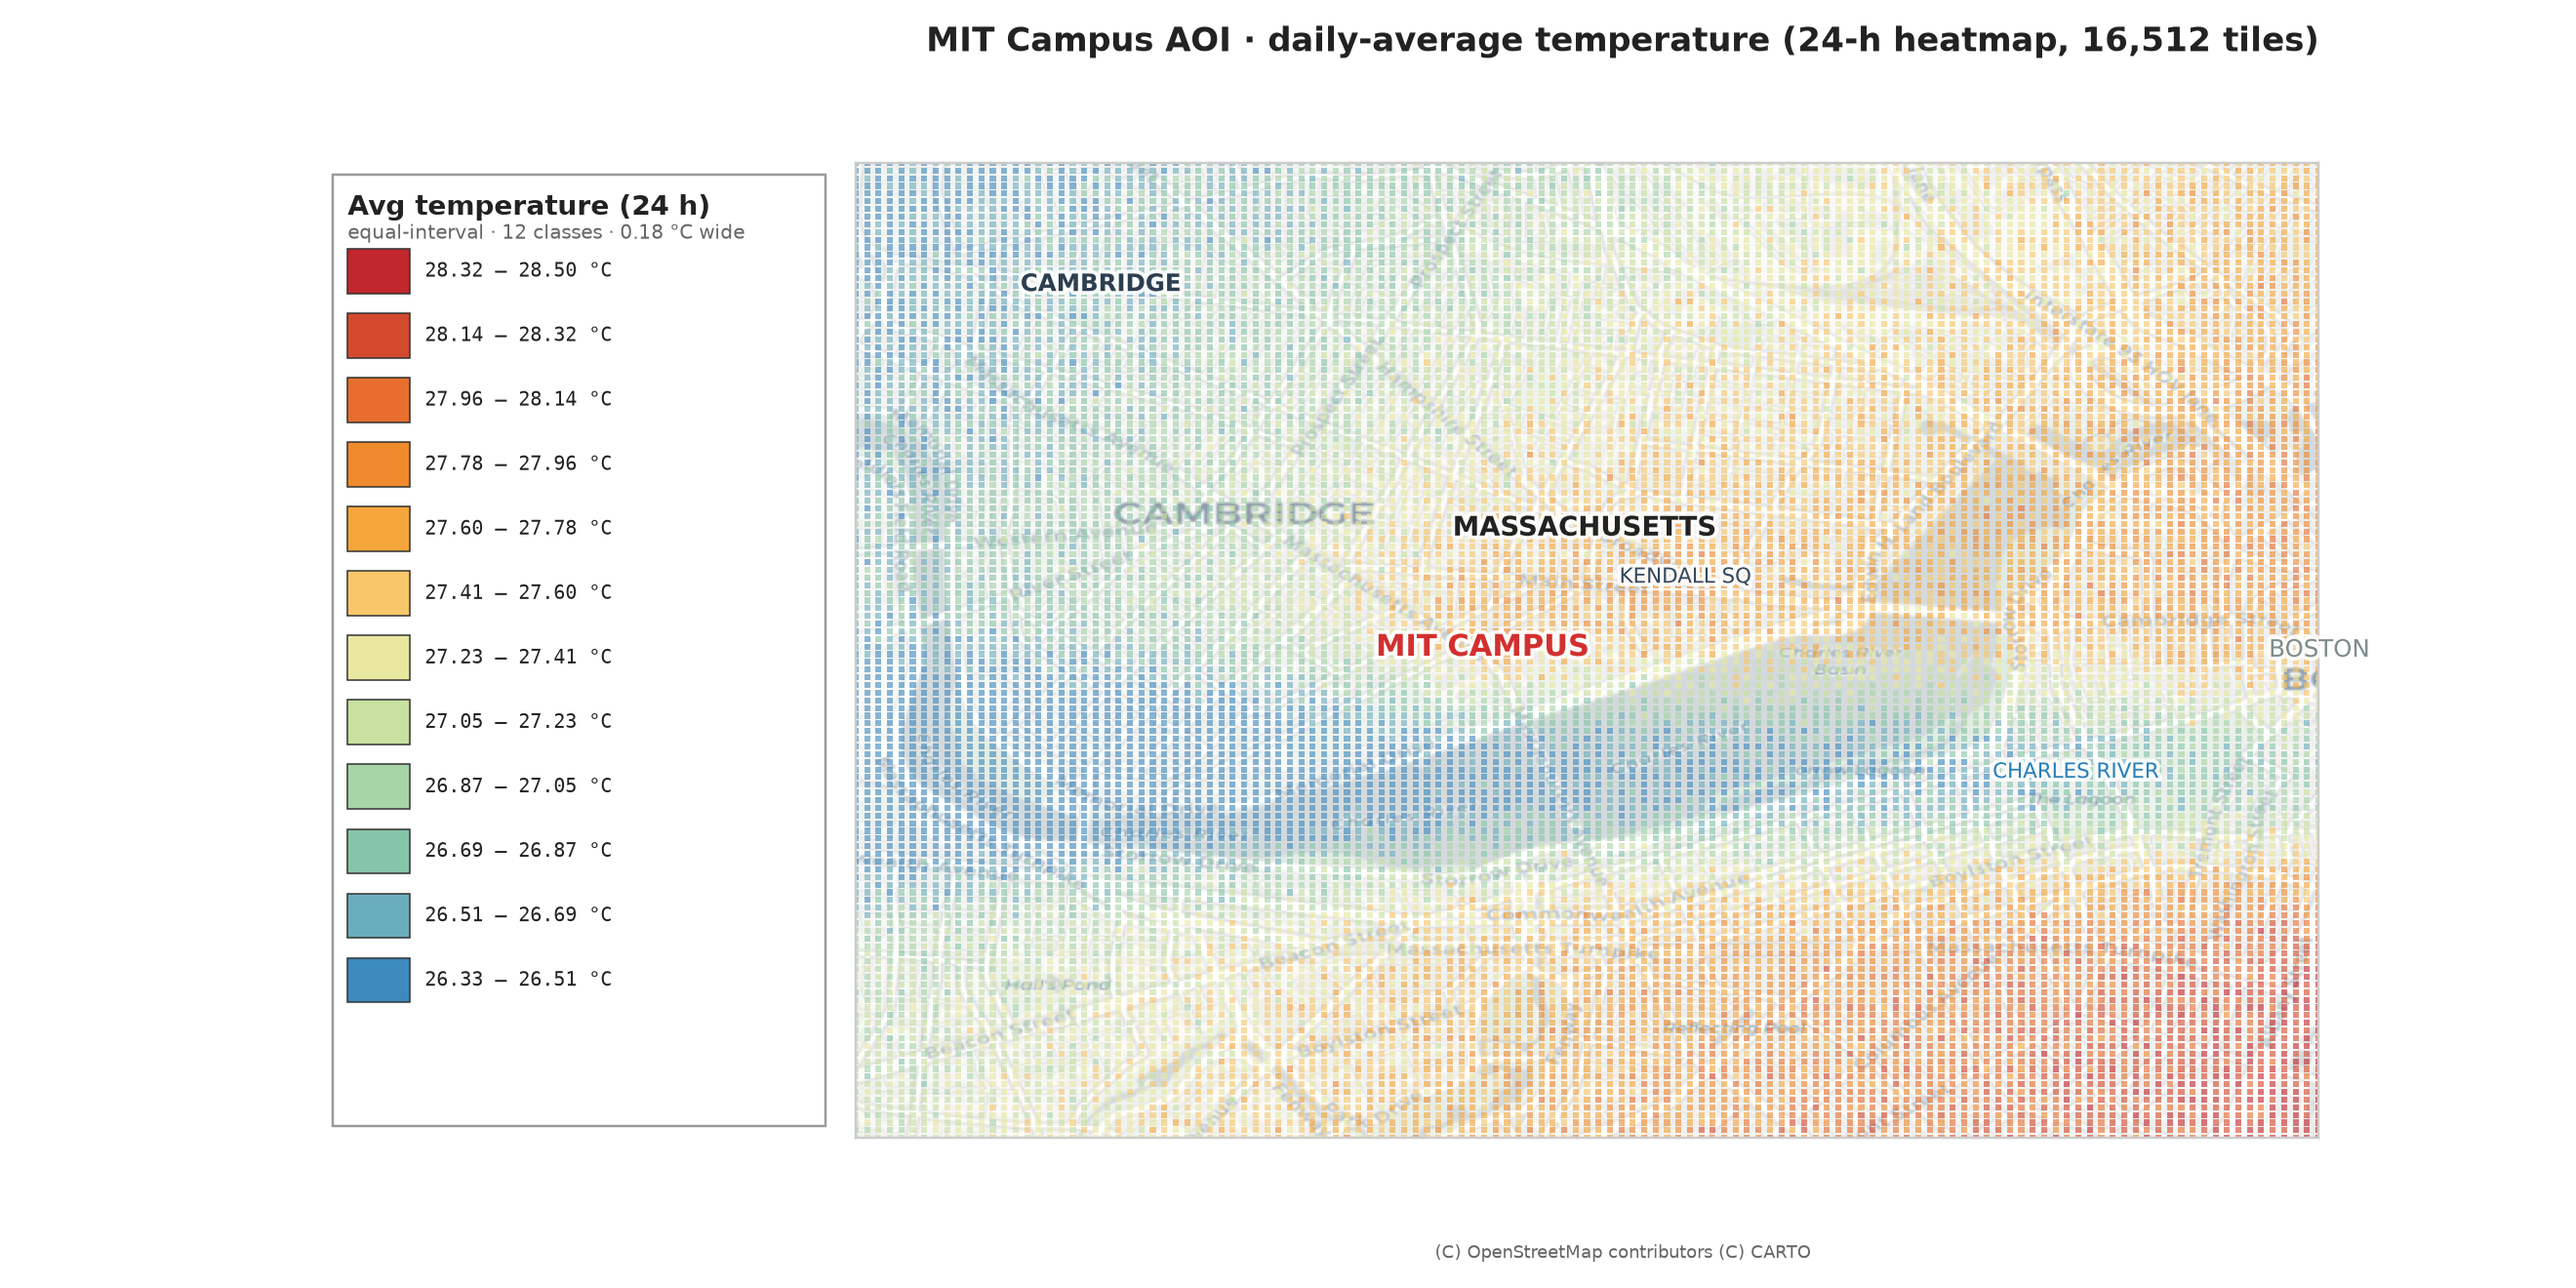
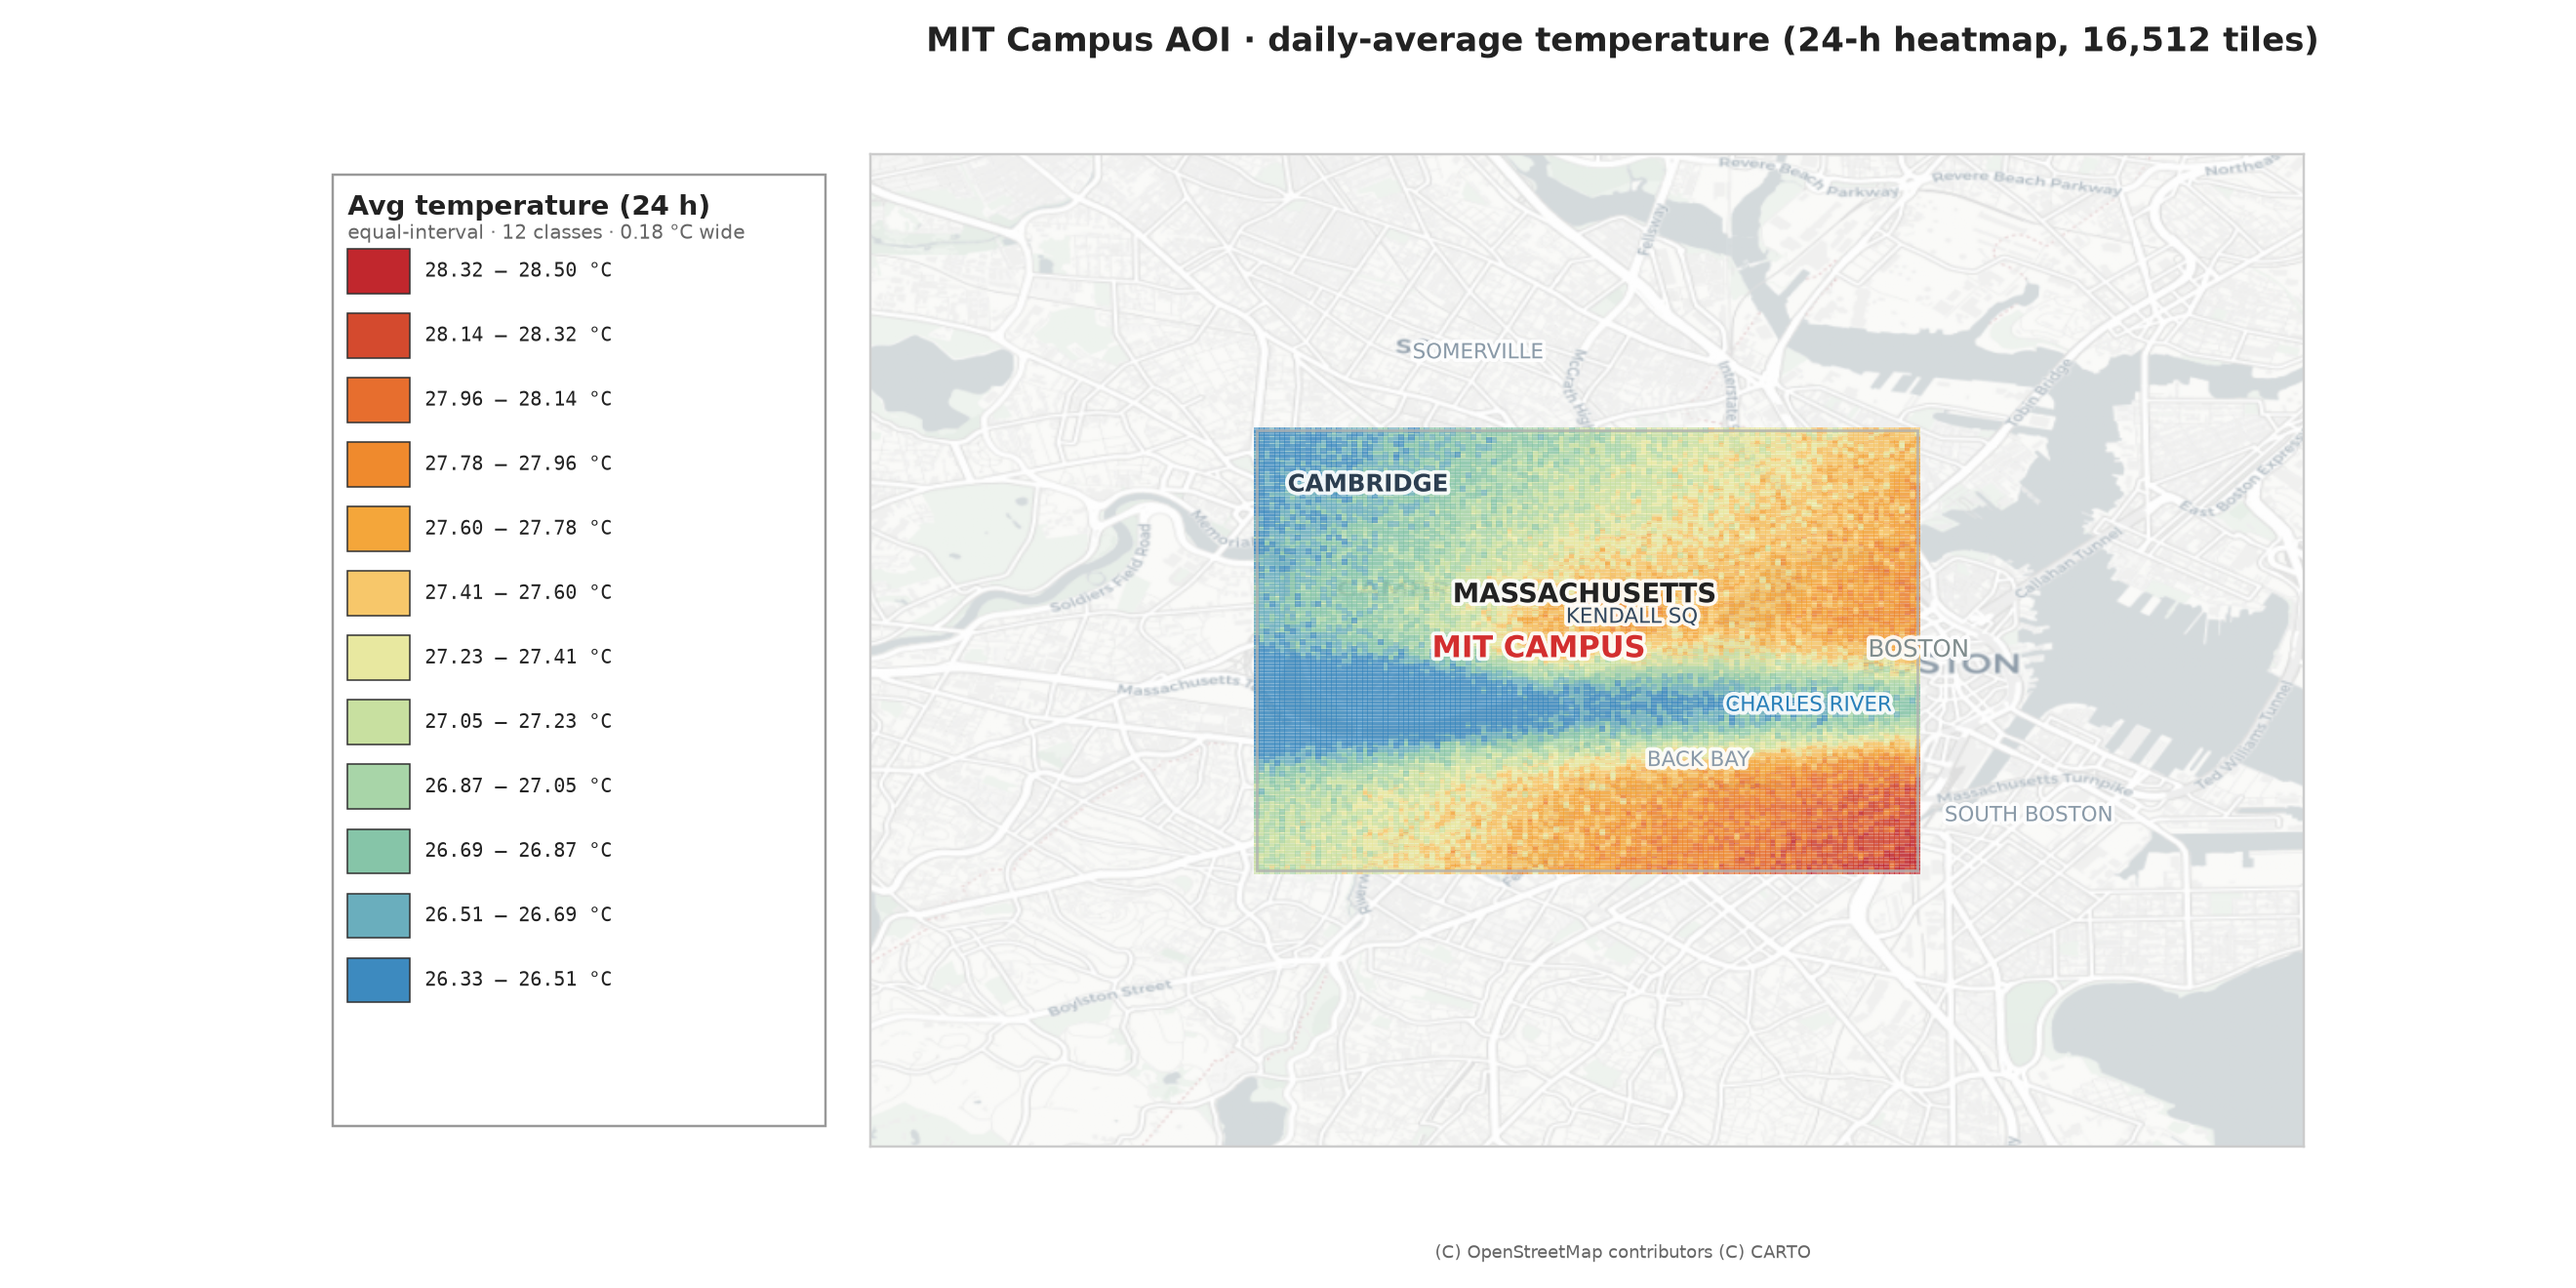
MIT maps: bigger basemap with AOI inside (like San Jose 16,507 tiles)
- Daily-average heatmap (16,512 tiles, 12 classes 0.18°C) now renders
  like the San Jose AOI image: CARTO Positron basemap ~2× larger than
  AOI (map_lon/lat = AOI ±0.035/0.025, zoom 13-14) with streets and
  locality names faint underneath, AOI heatmap (s=4, alpha 0.62) centered
  inside with AOI border (#b0b0b0), labels on top (MIT CAMPUS red
  #d32f2f 10pt + MASSACHUSETTS/CAMBRIDGE/BOSTON with white halo, zorder
  5). Before, basemap exactly matched AOI bounds, so streets were
  hidden and heatmap covered the whole map.

- 24h GIF (16,512 tiles, 24 frames) same: bigger basemap, AOI border,
  heat tiles s=3 alpha 0.62, MIT CAMPUS + CAMBRIDGE labels on every
  frame, island breathes 0.75→1.30 x diurnal.

Fixes 'u think u make the map bigger with our area of analysis inside
it. like this' — now AOI is inside the bigger map, as in San Jose.

Changed region(s): [[0.3106, 0.1242, 0.9318, 0.9008]]

diff --git a/scripts/make_mit_sanjose_style.py b/scripts/make_mit_sanjose_style.py
@@ -111,34 +111,31 @@ for i in range(n_classes):
     high = min(high, vmax)
     ax_leg.text(0.20, y+0.022, f"{low:5.2f} — {high:5.2f} °C", fontsize=6.5, va="center", ha="left", color="#222222", family="monospace")
 
-# Right map
+# Right map — BIGGER basemap with AOI heatmap inside it (like San Jose image: heatmap centered, streets around)
+# Basemap is ~2× larger than AOI so locality names (CAMBRIDGE, BOSTON, SOMERVILLE) stay visible around the heatmap
+map_lon0, map_lon1 = lon0 - 0.035, lon1 + 0.035
+map_lat0, map_lat1 = lat0 - 0.025, lat1 + 0.025
 ax_map = fig.add_subplot(gs[0, 1])
-ax_map.set_xlim(lon0, lon1)
-ax_map.set_ylim(lat0, lat1)
+ax_map.set_xlim(map_lon0, map_lon1)
+ax_map.set_ylim(map_lat0, map_lat1)
 ax_map.set_aspect("equal")
 # Try to add real CARTO light basemap with locality names (like San Jose image)
 # Falls back to faint grid if offline
 basemap_ok = False
 try:
     import contextily as ctx
-    # contextily expects Web Mercator, but can handle EPSG:4326 if we set it
-    # Use zoom ~14 for MIT AOI (~4km)
-    ctx.add_basemap(ax_map, crs="EPSG:4326", source=ctx.providers.CartoDB.Positron, zoom=14, attribution=False)
+    # Use zoom 13 for the larger basemap (~8km) so streets + locality names render faintly
+    ctx.add_basemap(ax_map, crs="EPSG:4326", source=ctx.providers.CartoDB.Positron, zoom=13, attribution=False)
     basemap_ok = True
-    print("added CARTO Positron basemap with locality names")
+    print("added CARTO Positron basemap with locality names (bigger map)")
 except Exception as e:
     print(f"basemap failed ({e}), using faint grid fallback")
     ax_map.set_facecolor("#f6f6f4")
-    for lon in np.linspace(lon0, lon1, 8):
-        ax_map.plot([lon, lon], [lat0, lat1], color="#e8e8e6", lw=0.6, alpha=0.7, zorder=0)
-    for lat in np.linspace(lat0, lat1, 6):
-        ax_map.plot([lon0, lon1], [lat, lat], color="#e8e8e6", lw=0.6, alpha=0.7, zorder=0)
-    # Fallback labels
+    for lon in np.linspace(map_lon0, map_lon1, 10):
+        ax_map.plot([lon, lon], [map_lat0, map_lat1], color="#e8e8e6", lw=0.5, alpha=0.6, zorder=0)
+    for lat in np.linspace(map_lat0, map_lat1, 8):
+        ax_map.plot([map_lon0, map_lon1], [lat, lat], color="#e8e8e6", lw=0.5, alpha=0.6, zorder=0)
     ax_map.text((lon0+lon1)/2, (lat0+lat1)/2, "MIT CAMPUS", fontsize=11, color="#c0c0c0", ha="center", va="center", alpha=0.5, fontweight="bold", zorder=1)
-    ax_map.text(-71.115, 42.375, "CAMBRIDGE", fontsize=8, color="#a8b5c0", ha="left", va="center", alpha=0.6, zorder=1)
-    ax_map.text(-71.07, 42.345, "CHARLES RIVER", fontsize=6, color="#a0c4d0", ha="center", va="center", style="italic", alpha=0.5, zorder=1)
-    ax_map.text(-71.065, 42.37, "KENDALL", fontsize=7, color="#b0b8c0", ha="center", va="center", alpha=0.5, zorder=1)
-    ax_map.text(-71.08, 42.365, "CENTRAL", fontsize=7, color="#b0b8c0", ha="center", va="center", alpha=0.4, zorder=1)
 # Heatmap tiles: scatter with discrete colors, as in San Jose image (square tiles, no edges, alpha)
 # Use slightly higher alpha over basemap so streets remain visible, but low enough to keep basemap labels legible
 alpha = 0.62 if basemap_ok else 0.92
@@ -147,16 +144,22 @@ for i in range(n_classes):
     if not np.any(mask):
         continue
     ax_map.scatter(lons[mask], lats[mask], c=[palette_hex[i]], s=4, marker="s", alpha=alpha, edgecolors="none", linewidths=0, zorder=2)
-# Always add locality labels on top of heatmap (so MIT is visible even over hot tiles)
-# Use white halo for legibility over heatmap
+# Always add locality labels on top (so MIT is visible even over hot tiles) — with larger basemap, labels outside AOI stay visible
 import matplotlib.patheffects as pe
+# AOI border (so heatmap is clearly inside the bigger map, like San Jose image)
+import matplotlib.patches as mpatches
+ax_map.add_patch(mpatches.Rectangle((lon0, lat0), lon1-lon0, lat1-lat0, fill=False, edgecolor="#b0b0b0", lw=0.9, alpha=0.8, zorder=4))
 for txt, lon, lat, fs, col, fw in [
-    ("MIT CAMPUS", -71.0942, 42.3601, 10, "#d32f2f", "bold"),  # MIT at exact coord, red for visibility
+    ("MIT CAMPUS", -71.0942, 42.3601, 10, "#d32f2f", "bold"),
     ("MASSACHUSETTS", -71.09, 42.365, 9, "#222222", "bold"),
     ("CAMBRIDGE", -71.11, 42.375, 8, "#2c3e50", "bold"),
     ("CHARLES RIVER", -71.07, 42.355, 7, "#2980b9", "normal"),
     ("KENDALL SQ", -71.086, 42.363, 7, "#34495e", "normal"),
     ("BOSTON", -71.06, 42.36, 8, "#7f8c8d", "normal"),
+    # Surrounding context (outside AOI but inside bigger basemap, like SANTA CLARA / ALUM ROCK in San Jose image)
+    ("SOMERVILLE", -71.10, 42.387, 7, "#8a9aa8", "normal"),
+    ("BACK BAY", -71.08, 42.35, 7, "#8a9aa8", "normal"),
+    ("SOUTH BOSTON", -71.05, 42.345, 7, "#8a9aa8", "normal"),
 ]:
     ax_map.text(lon, lat, txt, fontsize=fs, color=col, ha="center", va="center", fontweight=fw, zorder=5,
                 path_effects=[pe.withStroke(linewidth=2.5, foreground="white", alpha=0.9)])

diff --git a/scripts/make_mit_24h_gif.py b/scripts/make_mit_24h_gif.py
@@ -45,22 +45,36 @@ for hour in range(24):
     # Clip
     vals = np.clip(vals, vmin, vmax)
 
+    # Bigger basemap with AOI inside (like San Jose image)
+    map_lon0, map_lon1 = lon0 - 0.035, lon1 + 0.035
+    map_lat0, map_lat1 = lat0 - 0.025, lat1 + 0.025
     fig, ax = plt.subplots(figsize=(4.2, 4.2), dpi=140)
-    ax.set_xlim(lon0, lon1)
-    ax.set_ylim(lat0, lat1)
+    ax.set_xlim(map_lon0, map_lon1)
+    ax.set_ylim(map_lat0, map_lat1)
     ax.set_aspect("equal")
-    # Try CARTO basemap, fallback to faint grid
+    # Try CARTO basemap, fallback to faint grid (bigger map)
     basemap_ok = False
     try:
         import contextily as ctx
-        ctx.add_basemap(ax, crs="EPSG:4326", source=ctx.providers.CartoDB.Positron, zoom=14, attribution=False)
+        ctx.add_basemap(ax, crs="EPSG:4326", source=ctx.providers.CartoDB.Positron, zoom=13, attribution=False)
         basemap_ok = True
     except Exception:
         ax.set_facecolor("#f6f6f4")
-        for lon in np.linspace(lon0, lon1, 6):
-            ax.plot([lon, lon], [lat0, lat1], color="#e8e8e6", lw=0.5, alpha=0.6, zorder=0)
-        for lat in np.linspace(lat0, lat1, 5):
-            ax.plot([lon0, lon1], [lat, lat], color="#e8e8e6", lw=0.5, alpha=0.6, zorder=0)
+        for lon in np.linspace(map_lon0, map_lon1, 8):
+            ax.plot([lon, lon], [map_lat0, map_lat1], color="#e8e8e6", lw=0.5, alpha=0.6, zorder=0)
+        for lat in np.linspace(map_lat0, map_lat1, 6):
+            ax.plot([map_lon0, map_lon1], [lat, lat], color="#e8e8e6", lw=0.5, alpha=0.6, zorder=0)
+    # AOI border
+    import matplotlib.patches as mpatches
+    ax.add_patch(mpatches.Rectangle((lon0, lat0), lon1-lon0, lat1-lat0, fill=False, edgecolor="#b0b0b0", lw=0.8, alpha=0.7, zorder=4))
+    # Locality labels (always on top, like San Jose image)
+    import matplotlib.patheffects as pe
+    for txt, lon, lat, fs, col in [
+        ("MIT CAMPUS", -71.0942, 42.3601, 7, "#d32f2f"),
+        ("CAMBRIDGE", -71.11, 42.375, 6, "#2c3e50"),
+    ]:
+        ax.text(lon, lat, txt, fontsize=fs, color=col, ha="center", va="center", fontweight="bold", zorder=5,
+                path_effects=[pe.withStroke(linewidth=1.8, foreground="white", alpha=0.9)])
     # Heat tiles as pcolormesh for speed (discrete but continuous)
     # Use lower alpha over basemap so streets locality names stay legible (user saw only Cambridge)
     sc = ax.scatter(lons_grid.ravel(), lats_grid.ravel(), c=vals.ravel(), cmap="coolwarm", vmin=vmin, vmax=vmax, s=3, marker="s", alpha=0.62 if basemap_ok else 0.92, edgecolors="none", zorder=2)
